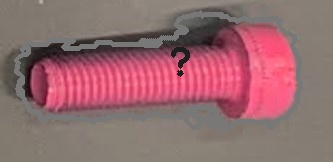
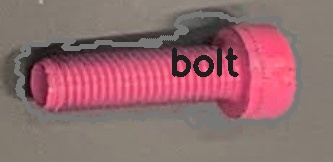
updated if else, so now as backup goes to bolt

Changed region(s): [[0.5105, 0.2778, 0.7207, 0.4938]]

diff --git a/conventional/Conventional.py b/conventional/Conventional.py
@@ -83,7 +83,7 @@ def find_object(contour, moment, mask) -> str:
     elif k_value < 2.5:
         return 'ring'
     else:
-        return '?'
+        return 'bolt'
 
 def find_color(contour, original_image) -> str:
     
@@ -192,9 +192,9 @@ for img in images:
     cv.imwrite(output_dir, img.cv_image)
     
     # -=-=- save data to csv -=-=- #
-    with open('./output_data.csv', 'a', encoding='UTF8', newline='') as csv_file:
-        csv_writer = csv.writer(csv_file)
-        for contour in range(len(img.contours)):
-            csv_writer.writerow((img.name, img.contours[contour].kind_of_object, 1, img.contours[contour].position, img.contours[contour].oriëntation, img.contours[contour].color))
+    # with open('./output_data.csv', 'a', encoding='UTF8', newline='') as csv_file:
+    #     csv_writer = csv.writer(csv_file)
+    #     for contour in range(len(img.contours)):
+    #         csv_writer.writerow((img.name, img.contours[contour].kind_of_object, 1, img.contours[contour].position, img.contours[contour].oriëntation, img.contours[contour].color))
             
 print("done! data saved to: output_data.csv")
